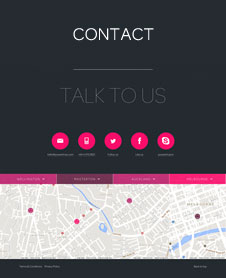
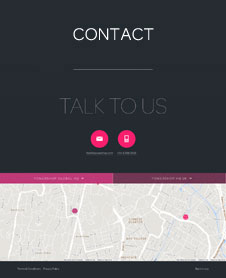
Correct Jim's details, update some images, update privacy policy

diff --git a/privacy/index.html b/privacy/index.html
@@ -6,89 +6,87 @@ header_color: white
 ---
 
 <section id="welcome" class="anchor parallax_background down">
-	<div class="wrapper">
-		<h1 class="yell">Privacy Policy</h1>
-	</div>
+  <div class="wrapper">
+    <h1 class="yell">Privacy Policy</h1>
+  </div>
 </section>
 
 <section id="privacy" class="parallax_background">
-	<div class="wrapper">
-		
-		<h2>View our <a href="/privacy/privacypolicy-3-12-2014.html">new privacy policy</a> effective from 3 December 2014</h2> 
+  <div class="wrapper">
 
-		<h3>Privacy Act 1993 ("the Act")</h3>
+    <h2>Effective from 3 December 2014</h2>
+    <h3>Privacy Act 1993 ("the Act")</h3>
 
-		<p>If we hold personal information about you, we comply with the Act. This Privacy Policy sets out information about how we do that. Further information about privacy and your rights under the Act can be found at <a href="http://www.privacy.org.nz">www.privacy.org.nz</a>.</p>
+    <p>If we hold personal information about you, we comply with the Act. This Privacy Policy sets out information about how we do that. Further information about privacy and your rights under the Act can be found at <a href="http://www.privacy.org.nz">www.privacy.org.nz</a>.</p>
 
-		<p>In this privacy policy, when we refer to our website, we mean www.powershop.com.  In this privacy policy, a reference to “we”, “us” or “our” means “Powershop New Zealand Limited” or “Powershop New Zealand Limited’s”, as appropriate.</p>
+    <p>In this privacy policy, when we refer to our website, we mean www.powershop.com.  In this privacy policy, a reference to “we”, “us” or “our” means “Powershop New Zealand Limited” or “Powershop New Zealand Limited’s”, as appropriate.</p>
 
-		<p>Our online shop for this website is hosted by a company called Smallfish Limited (“Smallfish”). Smallfish has its own privacy policy available at: <a href="http://www.smallfish.co.nz/home/smallfish-privacy-policy">www.smallfish.co.nz/home/smallfish-privacy-policy</a>. Our privacy policy is separate and in addition to Smallfish’s privacy policy. We aren’t responsible for Smallfish’s acts or omissions in relation to your data, so we recommend you also become familiar with Smallfish’s privacy policy. See also the section below headed ‘Information collected by Smallfish’.</p>
+    <h3>Information we collect</h3>
 
-		<h3>What information we collect and how we collect it</h3>
-		<p>While you use our website, including by requesting or purchasing products through our website, or when you communicate with us, we may collect and hold personal information about you. Powershop may collect information directly from our website or when we communicate with each other.</p>
+    <p>While you use our website, including by requesting or purchasing products through our website, or when you communicate with us, we may collect and hold personal information about you. Powershop may collect information directly from our website or when we communicate with each other.</p>
 
-		<p>If you decide to try to sign up to purchase a product, and you enter your contact details but you do not successfully complete the ordering process, we may contact you to see if we can help you finish your order and/ or to get your feedback. If we do this, we will use the personal details you have entered on the website to contact you.</p>
+    <h4>If You Try to Make a Purchase</h4>
+    <p>If you decide to try to sign up to purchase a product, and you enter your contact details but you do not successfully complete the ordering process, we may contact you to see if we can help you finish your order and/ or to get your feedback. If we do this, we will use the personal details you have entered on the website to contact you.</p>
 
-		<p>Powershop uses Google Analytic tools and cookies in the website to collect a range of information such as the number of visitors to our site per day, which pages they visit and when, some content they enter and see when they interact with our site, referring website address, their computer’s Internet Protocol address, operating systems, browser (which may contain device type) and language. </p>
-
-		<p>We use this information to analyse trends, better configure our service and messages, administer and track the performance of referring websites, our website and to understand your interactions with our website.</p>
-
-		<p>When Google Analytics receives personal information, that information is transferred, processed and stored on Google servers around the world in accordance with Google’s privacy policy available at <a href="http://www.google.com/privacy.html">www.google.com/privacy.html</a>.</p>
-
-		<h3>Information collected by Smallfish</h3>
-		<p>Smallfish uses cookies and Google Services (including Google Analytics) to help Smallfish analyse how users use its website. Smallfish’s privacy policy refers to us as the “shop owner”, and you as our “customer”. Smallfish’s privacy policy mainly applies to us as shop owners but it also explains how it collects, holds, uses and may share information about you.  When Google Analytics receives personal information, that information is transferred, processed and stored on Google servers around the world in accordance with Google’s privacy policy available at <a href="http://www.google.com/privacy.html">www.google.com/privacy.html</a>.</p>
-
-		<p>From time to time, Smallfish may provide Powershop with (or Powershop may request) information in an aggregated form in which the customers cannot be identified. This helps us with analysis such as trends, sales patterns and your interaction with the shop.</p>
-
-		<h3>Use of your information</h3>
-
-		<p>The information we hold about you will be used to provide our products to you and for related purposes, for example:</p>
-		<ul>
-			<li>confirming your identity;</li>
-			<li>processing any orders that you request through our website;</li>
-			<li>supplying you with products you have requested;</li>
-			<li>communicating with you;</li>
-			<li>complying with our obligations to you and other third parties involved in  supplying products to you;</li>
-			<li>improving customer service;</li>
-			<li>providing you with information on third parties’ and/or Powershop’s other products and services;</li>
-			<li>conducting surveys and internal research;</li>
-			<li>complying with laws and regulations;</li>
-			<li>for our general business purposes (such as in aggregated data and to contact you if there are issues with your order);</li>
-			<li>for any other use for which you have given authorisation.</li>
-		</ul>
-
-		<p>Powershop will not sell, lend, trade or otherwise disclose your personal information to any other person or agency except as set out in this privacy policy.</p>
-
-		<h3>Disclosure of your information</h3>
-		<p>Powershop will not share your personal information, except when:</p>
-		<ul>
-			<li>you tell us we can do this;</li>
-			<li>we reasonably believe we are required to do so by law;</li>
-			<li>we need to do so to provide a product to you;</li>
-			<li>we want to keep you informed about other products;</li>
-			<li>we reasonably believe it is necessary to assist an adjudicator to resolve a complaint you make about us.</li>
-		</ul>
-
-		<p>Other than as outlined above, we will not share your information with anyone else. You may ask us for access to any personal information we hold about you. If you think that information is inaccurate or incorrect, you may ask us to consider correcting or deleting it from our database. You can do this by sending an e-mail to the following address: <a href="mailto:shop@powershop.co.nz">shop@powershop.co.nz</a>.</p>
-
-		<h3>Storage and security of personal information </h3>
-		<p>We will comply with our obligations under the Act to use reasonable safeguards against loss, misuse or unauthorised disclosure. Most personal information will be held, stored and processed in New Zealand and/or Australia. Our staff has unique user identifications and passwords. We regularly train our staff on their responsibilities under the Act. Our physical premises are protected by reasonable security precautions. We do use some services which involve the transfer, processing and storage of some personal information outside of New Zealand- these are likewise protected by unique user identifications and passwords.</p>
-
-		<h3>Email</h3>
-		<p>Sometimes we send our customers information, such as a notification or confirmation about your requested products. We may do this by email. We may also send you by email newsletters or other information we think you may be interested in.  Newsletters and other information you receive will have instructions for how you can remove yourself from that mailing list. If you ask to be removed from a mailing list, we will do this.</p>
-
-		<h3>Cookies</h3>
-		<p>A cookie is a small piece of information stored on your computer. Cookies help us improve your user-experience when you use our website. 
-		The technology we use mostly uses "session" cookies. Session cookies expire after 30 minutes of no activity on the Powershop website. However some cookies we use for internet statistics last longer. Cookies cannot damage files, nor can they read information from the hard drive of a computer. It is possible to disable the acceptance of cookies by your web browser. However, doing so may restrict your ability to access some web pages. Alternatively you can opt out of cookies by visiting the Network Advertising Initiative opt out page at <a href="http://www.networkadvertising.org/managing/opt_out.asp">www.networkadvertising.org/managing/opt_out.asp</a>.</p>
-
-		<p>See the section on ‘What information we collect and how we collect it’ above to find out the sorts of things we use the cookies to track.</p>
-
-		<h3>Links to other websites</h3>
-		<p>This Privacy Policy only relates to this website and not our customer website (www.powershop.co.nz). Our website might have links to other websites. Powershop is not responsible for the practices on those other websites.</p>
-
-		<h3>Changing this policy</h3>
-		<p>We can change this privacy policy at any time. We will tell you about changes by posting an updated policy on our website, so we encourage you to periodically review this page for the latest information on privacy practices at Powershop for the purpose of this website. Changes apply 30 days from the date we post the change on our website. If you have any questions about our privacy policies or any other matter, please contact us.</p>
+    <h4>When You Visit Our Website</h4>
+    <p>When you visit our website we collect information to help us understand how our website is working and how we could improve it and/or our services. We use this information to analyse trends, better configure our service and messages, track the performance of referring websites, administer our website and monitor your interactions with our website.</p>
+    
+    <p>To collect this information about our website and help us analyse it, we use services such as Google Analytics and Optimizely which collect a range of anonymised information, such as the number of visitors on our sites per day, which pages they visit, some content they enter, see and interact with when they visit and use our sites, their computer’s internet protocol address and operating system, the date and time of your visit, browser type and language, referring website addresses, and the types of devices using our website. They also infer or collect demographic profiles about our website users, (e.g. age and gender) which are inferrred through a range of techniques including cookies from websites you visit and in the case of Google Analytics from other Google services.  See below for a description of the types of cookies we use.</p>
 
 
-	</div>
+    <h4>About Cookies</h4>
+    <p>A cookie is a small piece of information stored on your computer which helps us to improve your user-experience when you use our website. Our website uses cookies and other equivalent technologies. Some are "session" cookies which expire after 30 minutes of no activity on the Powershop website, while others are cookies that last longer.  See the section on ‘Information we collect’ above to find out the sorts of things we use the cookies to track.</p>
+
+    <p>Cookies cannot damage files, nor can they read information from the hard drive of a computer. It is possible to disable the acceptance of cookies. However, doing so may restrict your ability to access some web pages.</p>
+
+
+    <h3>Use of your information</h3>
+
+    <p>The information we hold about you will be used to provide our products to you and for related purposes, for example:</p>
+    <ul>
+      <li>confirming your identity;</li>
+      <li>processing any orders that you request through our website;</li>
+      <li>supplying you with products you have requested;</li>
+      <li>communicating with you;</li>
+      <li>complying with our obligations to you and other third parties involved in  supplying products to you;</li>
+      <li>improving customer service;</li>
+      <li>providing you with information on third parties’ and/or Powershop’s other products and services;</li>
+      <li>conducting surveys and internal research;</li>
+      <li>complying with laws and regulations;</li>
+      <li>for our general business purposes (such as in aggregated data and to contact you if there are issues with your order);</li>
+      <li>for any other use for which you have given authorisation.</li>
+    </ul>
+
+    <p>Powershop will not sell, lend, trade or otherwise disclose your personal information to any other person or agency except as set out in this privacy policy.</p>
+
+    <h3>Disclosure of your information</h3>
+    <p>Powershop will not share your personal information, except when:</p>
+    <ul>
+      <li>you tell us we can do this;</li>
+      <li>we reasonably believe we are required to do so by law;</li>
+      <li>we need to do so to provide a product to you;</li>
+      <li>we want to keep you informed about other products;</li>
+      <li>we reasonably believe it is necessary to assist an adjudicator to resolve a complaint you make about us.</li>
+    </ul>
+
+    <p>Other than as outlined above, we will not share your information with anyone else. You may ask us for access to any personal information we hold about you. If you think that information is inaccurate or incorrect, you may ask us to consider correcting or deleting it from our database. You can do this by sending an e-mail to the following address: <a href="mailto:shop@powershop.co.nz">shop@powershop.co.nz</a>.</p>
+
+    <h3>Storage and security of personal information </h3>
+    <p>We will comply with our obligations under the Act to use reasonable safeguards against loss, misuse or unauthorised disclosure. Most personal information will be held, stored and processed in New Zealand and/or Australia. Our staff have unique user identifications and passwords. We regularly train our staff on their responsibilities under the Act. Our physical premises are protected by reasonable security precautions. We do use some services which involve the transfer, processing and storage of some personal information outside of New Zealand - these are likewise protected by unique user identifications and passwords. When Google Analytics receives personal information, that information is transferred, processed and stored on Google servers around the world in accordance with Google's privacy policy available at <a href="http://www.google.com/privacy.html">http://www.google.com/privacy.html</a>.
+    </p>
+    
+    <p>When Optimizely receives aggregated anonymised personal information, that information is transferred, processed and stored on servers around the world by Optimizely in accordance with Optimizely’s privacy policy available at <a href="http://www.optimizely.com/privacy">http://www.optimizely.com/privacy</a>.</p>
+
+    <h3>Contacting you by email</h3>
+    <p>Sometimes we send our customers information, such as a notification or confirmation about your requested products. We may do this by email. We may also send you by email newsletters or other information we think you may be interested in.  Newsletters and other information you receive will have instructions for how you can remove yourself from that mailing list. If you ask to be removed from a mailing list, we will do this.</p>
+
+    <h3>Links to other websites</h3>
+    <p>This Privacy Policy only relates to this website and not our customer website (www.powershop.co.nz). Our website might have links to other websites. Powershop is not responsible for the practices on those other websites.</p>
+
+    <h3>Changing this policy</h3>
+    <p>We can change this privacy policy at any time. We will tell you about changes by posting an updated policy on our website, so we encourage you to periodically review this page for the latest information on privacy practices at Powershop for the purpose of this website. Changes apply 30 days from the date we post the change on our website. If you have any questions about our privacy policies or any other matter, please contact us.</p>
+
+
+
+  </div>
 </section>

diff --git a/index.html b/index.html
@@ -248,9 +248,9 @@ body_class: home
 
 					<div id="jim" class="person_detail">
 						<div class="people_content">
-							<h4>Jim Bartlett</h4>
-							<h5>Head of Operations<br /><small><a class="mail" href="mailto:jim.bartlett@powershop.com">jim.bartlett@powershop.com</a></small></h5>
-							<p>Brainy Jim has a PhD in Engineering and has served a 14-year stretch in the electricity industry. He&#8217;s Powershop&#8217;s business brain and our people person, which is good because he has oversight of our software development, operations and customer service. This means he&#8217;s responsible for maintaining our record-breaking customer service rankings and the smooth running of our website. As well as being very good at multi-tasking and maintaining high standards, Jim&#8217;s big brain has lead the development of Powershop&#8217;s crowning glory, a web application that exceeds all regulatory and technical requirements while remaining easy and enjoyable to use.</p>
+							<h4>Jim Barrett</h4>
+							<h5>Regional Manager UK<br /><small><a class="mail" href="mailto:jim.barrett@powershophq.com">jim.barrett@powershophq.com</a></small></h5>
+							<p>Brainy Jim has a PhD in Engineering and has served the electricity industry for over 15 years. He&#8217;s Powershop&#8217;s energy market integration specialist. Building on his in-depth knowledge of retail operations and customer service, Jim&#8217;s big brain led the development of Powershop&#8217;s crowning glory, a web application that exceeds all regulatory and technical requirements while remaining easy and enjoyable to use. Having operated a successful retail business in New Zealand using the Powershop platform, Jim was instrumental in taking the platform to Australia and is currently located in Birmingham working with our utility partner to integrate Powershop into the UK market. In a nutshell, Jim is responsible for client success in the UK market.</p>
 						</div>
 					</div>
 

diff --git a/_includes/maps.html b/_includes/maps.html
@@ -11,9 +11,8 @@
 					<div class="country">New Zealand</div>
 				</div>
 
-				<div class="">
-					Call <a href="tel:+64-4-472-9521" class="tel">+64 4 389 0859</a>
-				</div>
+				<div>Call <a href="tel:+64-4-472-9521" class="tel">+64 4 389 0859</a></div>
+				<div><a href="mailto:hello@powershop.com" class="">hello@powershop.com</a></div>
 			</div>
 		</div>
 
@@ -35,9 +34,9 @@
 					<div class="country">United Kingdom</div>
 				</div>
 
-				<div class="">
-					<a href="mailto:ukoffice@powershop.com" class="">ukoffice@powershop.com</a>
-				</div>
+				<div>Call <a href="tel:+44-121-772-5055" class="tel">+44 (0)121 772 5055</a></div>
+				<div><a href="mailto:ukoffice@powershop.com" class="">ukoffice@powershop.com</a></div>
+
 			</div>
 		</div>
 
